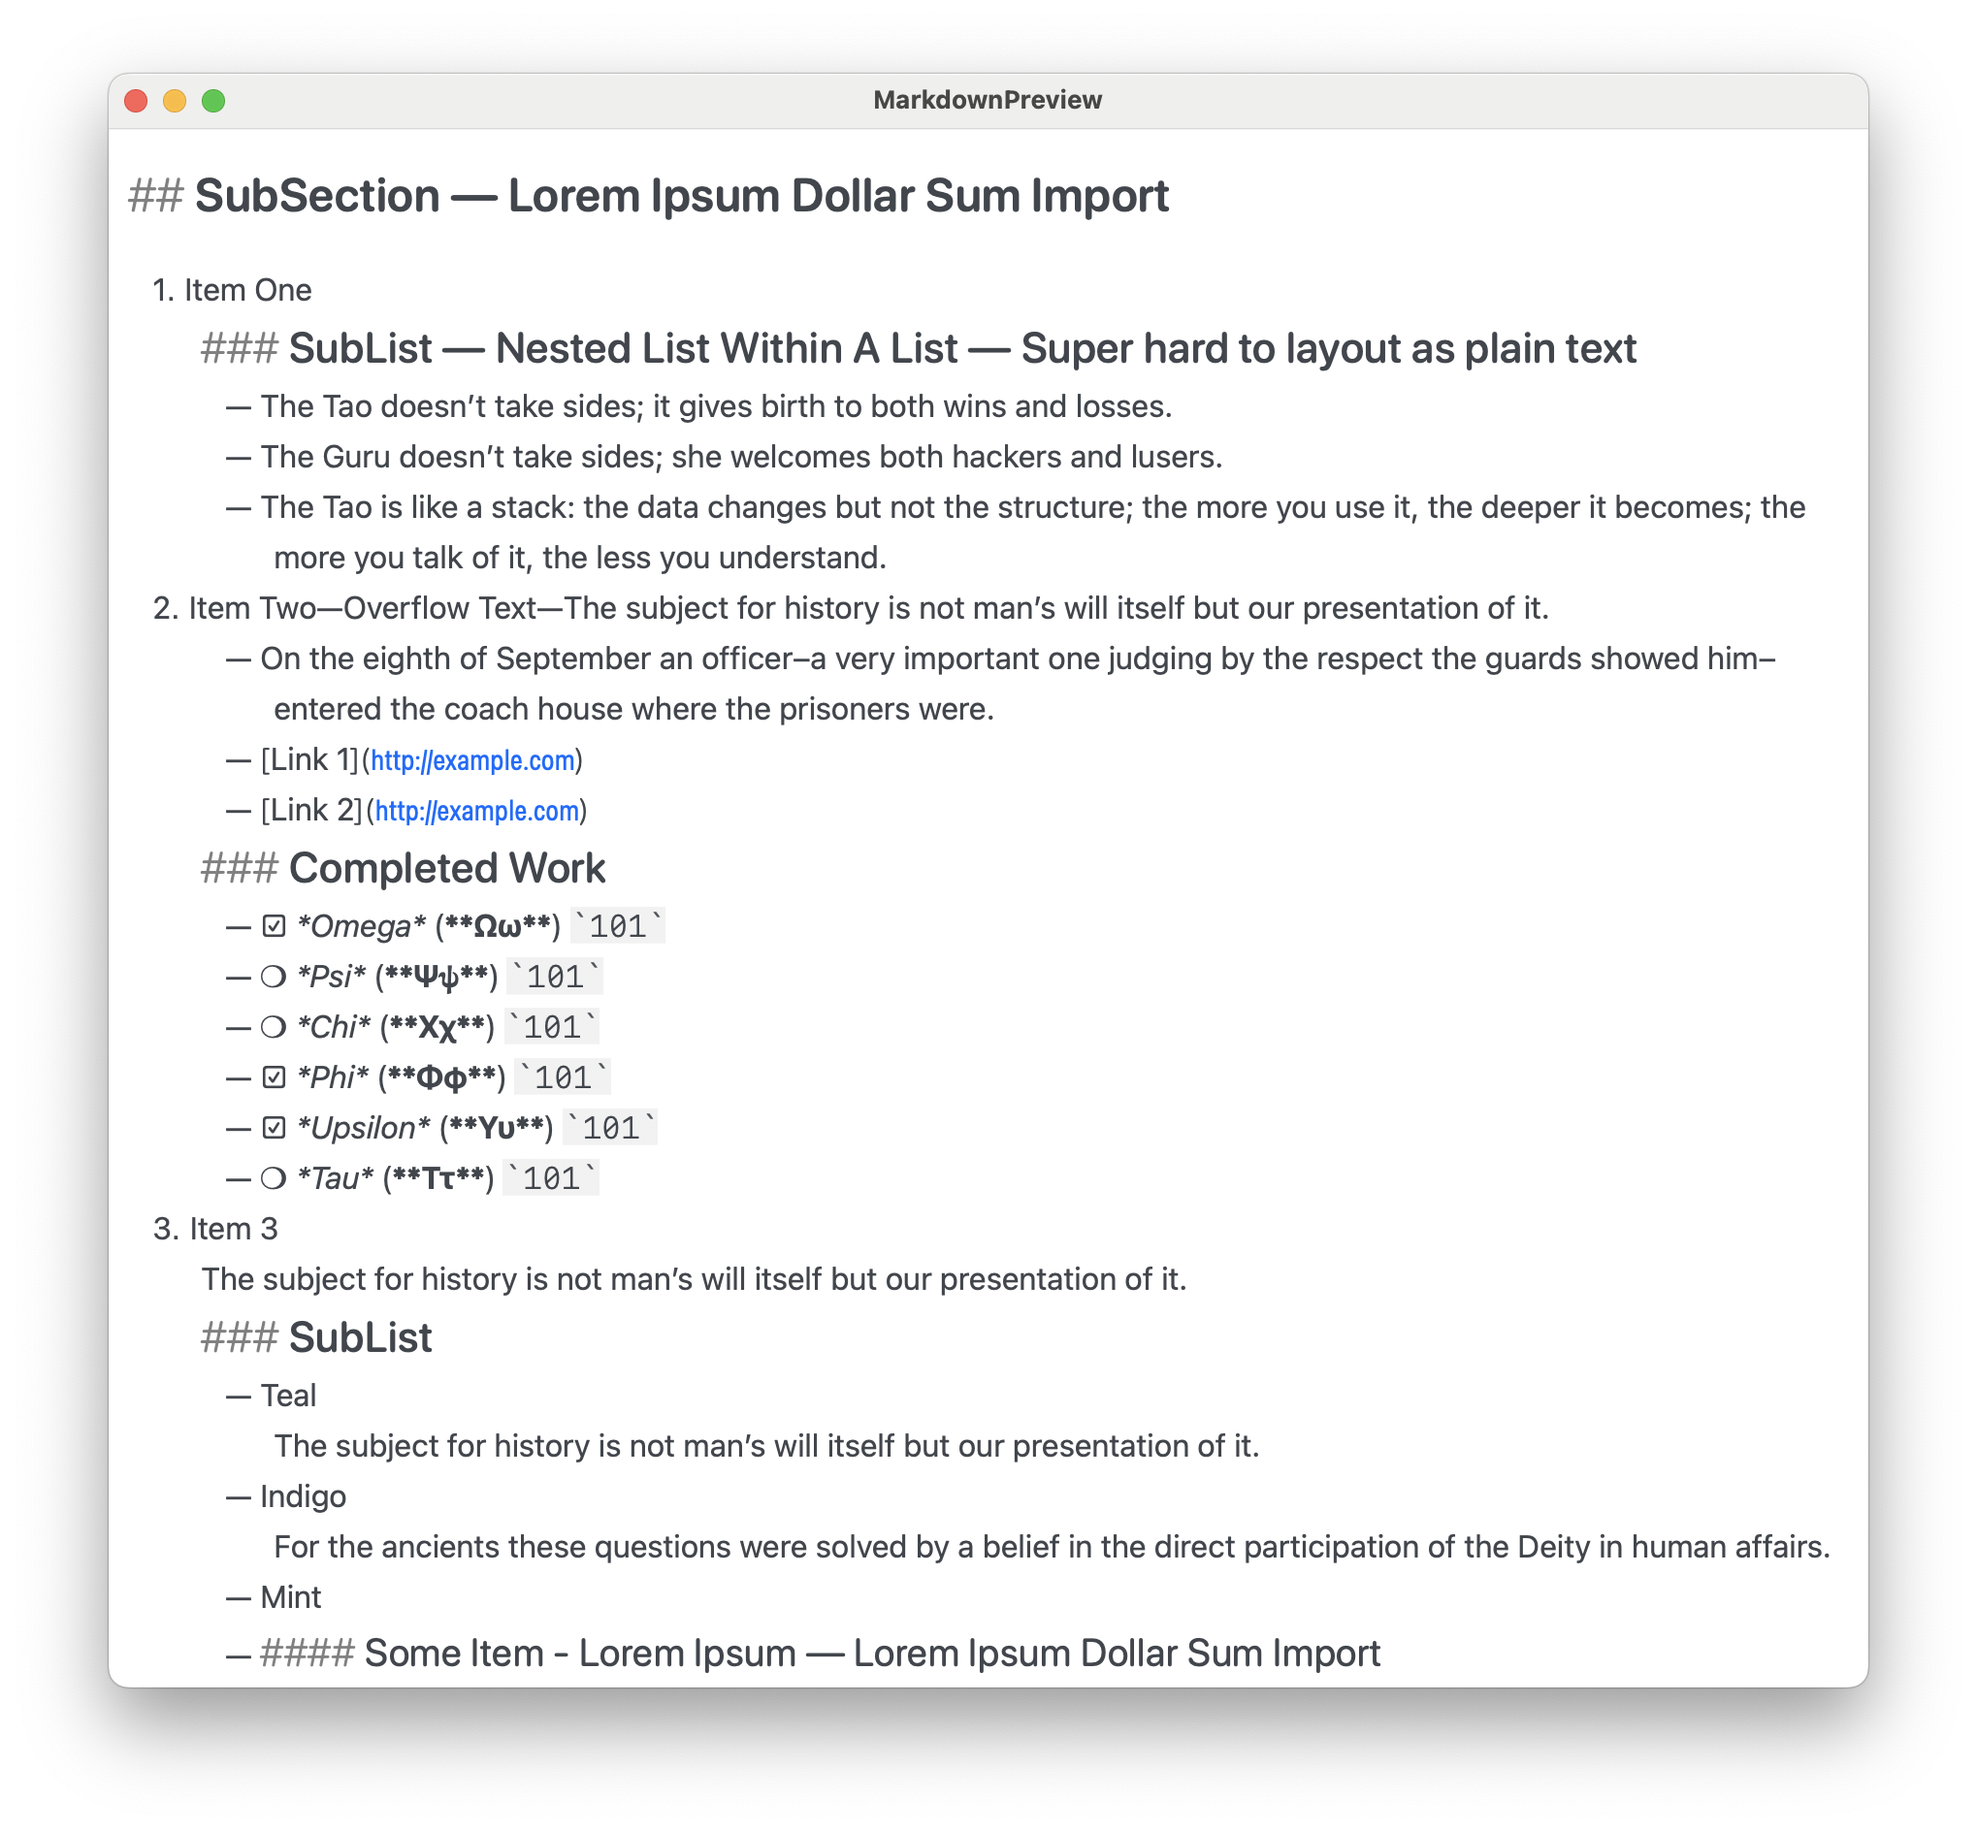
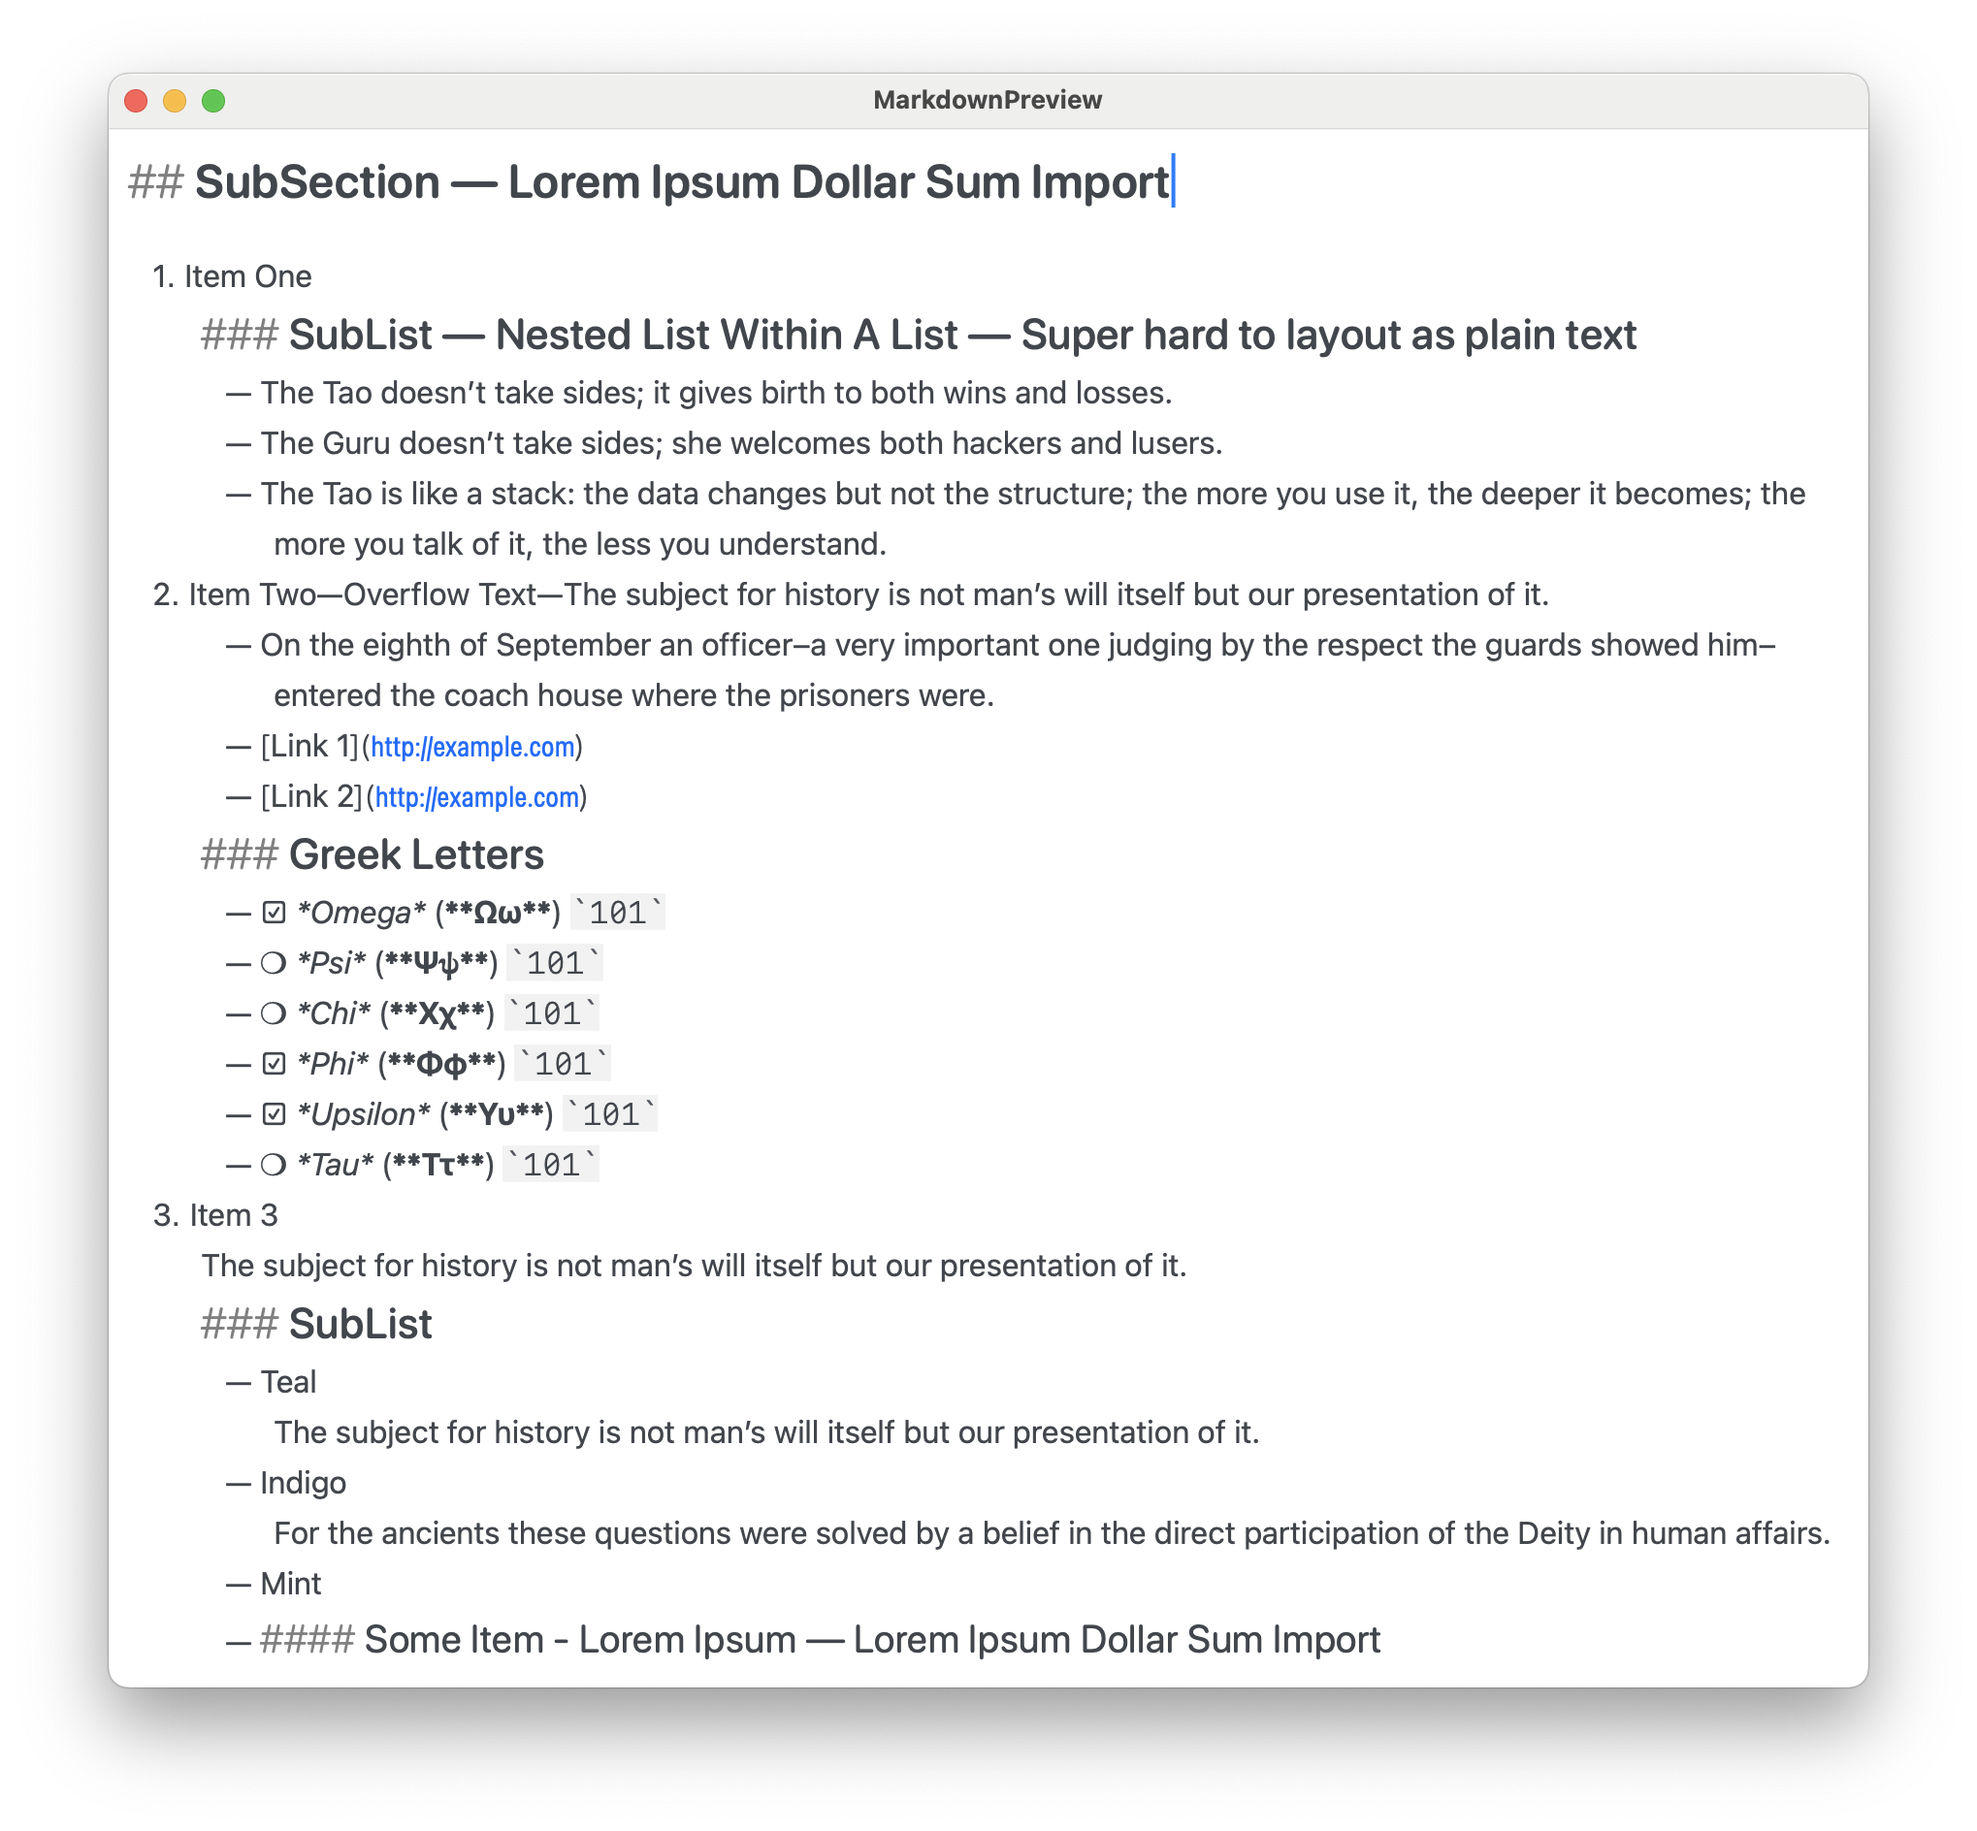
update readme and screenshots

Changed region(s): [[0.0618, 0.0938, 0.9274, 0.9062]]

diff --git a/MediaSample/Source/MarkdownExample.md b/MediaSample/Source/MarkdownExample.md
@@ -24,7 +24,7 @@
     - On the eighth of September an officer--a very important one judging by the respect the guards showed him--entered the coach house where the prisoners were.
     - [Link 1](http://example.com)
     - [Link 2](http://example.com)
-   ### Completed Work
+   ### Greek Letters
     - [x] *Omega* (**Ωω**) `101`
     - [ ] *Psi* (**Ψ𝛙**) `101`
     - [ ] *Chi* (**Χχ**) `101`
